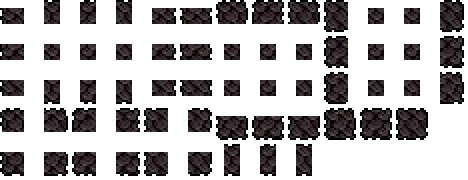
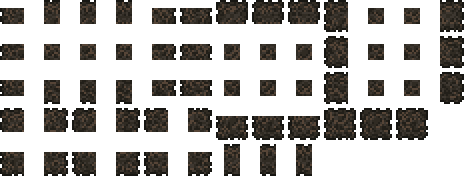
asteroid resprite

diff --git a/Tiles/Tiles/AsteroidTile.cs b/Tiles/Tiles/AsteroidTile.cs
@@ -36,7 +36,7 @@ namespace Redemption.Tiles.Tiles
             HitSound = SoundID.Tink;
             MinPick = 50;
             MineResist = 2.5f;
-            AddMapEntry(new Color(84, 76, 79));
+            AddMapEntry(new Color(87, 79, 69));
         }
         public override void ModifyLight(int i, int j, ref float r, ref float g, ref float b)
         {
